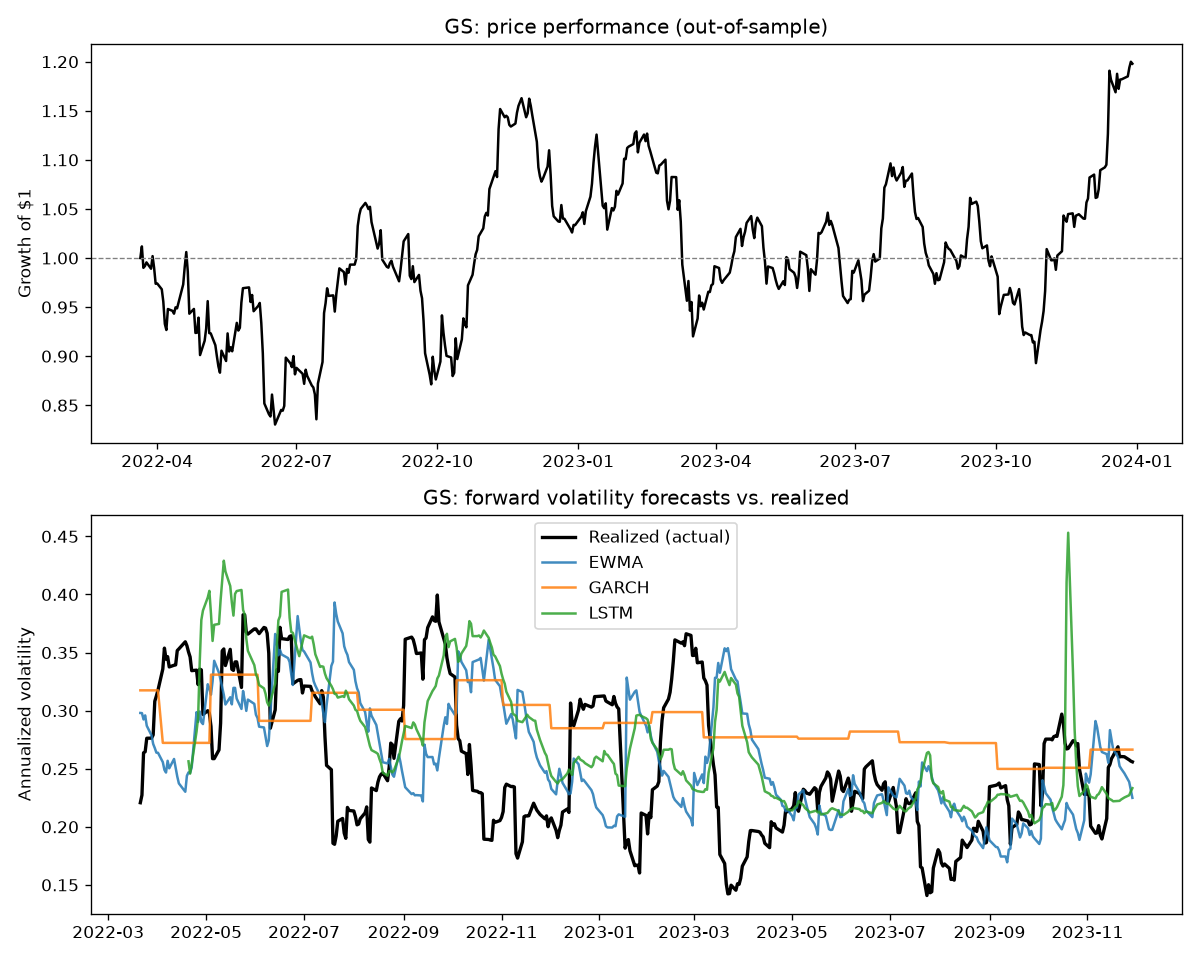
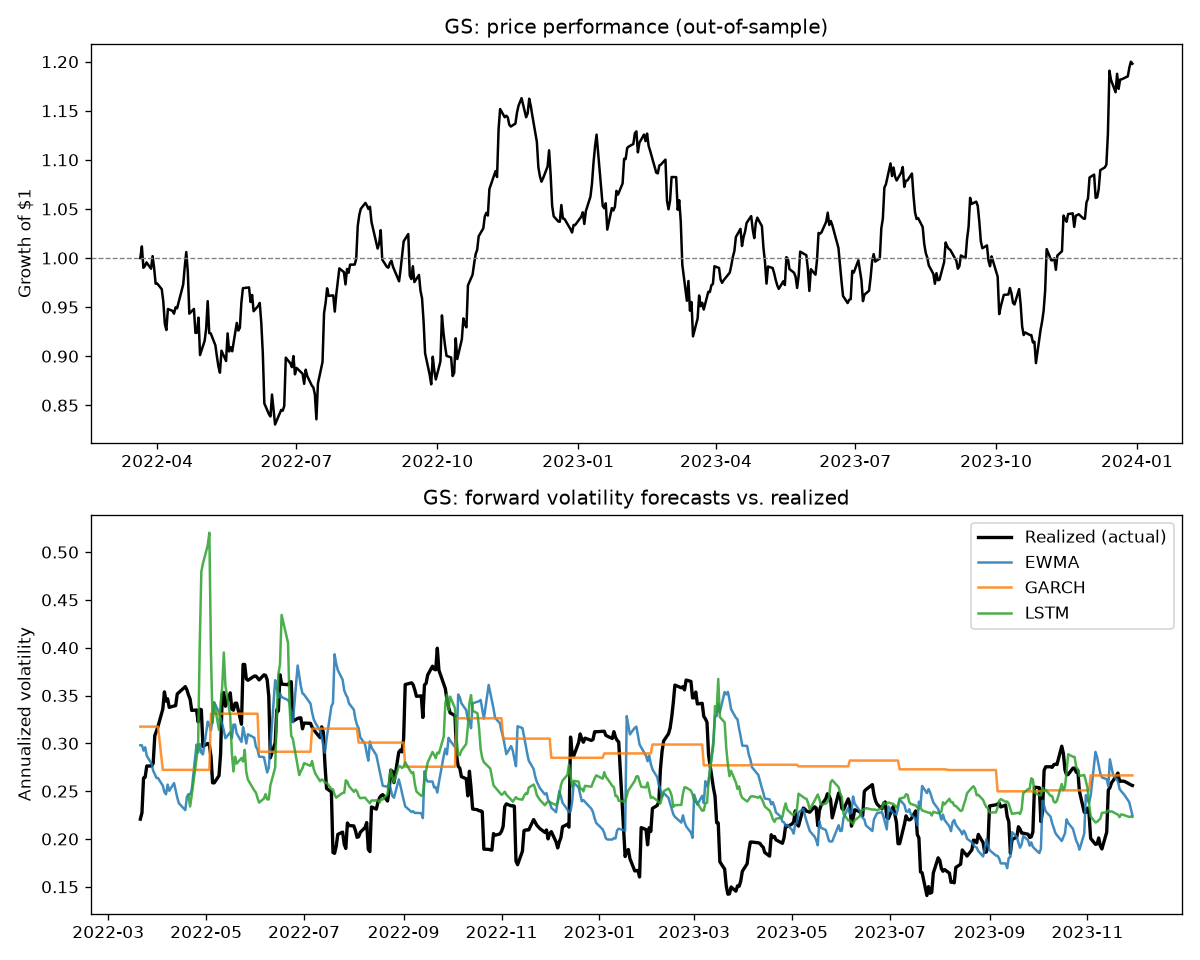
Add regime breakdown analysis and corrected results writeup

diff --git a/main.py b/main.py
@@ -28,10 +28,23 @@ import pandas as pd
 from data_pipeline import fetch_real_data, generate_synthetic_data, compute_features
 from baseline_models import rolling_baseline_forecasts
 from ml_model import train_model, predict, FEATURE_COLS
-from backtest import backtest_portfolio, performance_summary
+from backtest import backtest_portfolio, performance_summary, regime_performance
 from evaluate import compare_forecasts, var_calibration
 
 warnings.filterwarnings("ignore")
+
+# Default regime windows for breaking down backtest performance. These are
+# tuned to 2022-2023 US market history (rate-hike selloff, then the March
+# 2023 regional banking crisis, then recovery) since that's the period this
+# project has been validated against with bank-stock tickers. If you're
+# backtesting a different date range or asset class, edit these to match
+# whatever regimes are actually relevant to your own test window --
+# sub-periods that don't overlap your data are skipped automatically.
+DEFAULT_REGIMES = [
+    ("Rate-hike selloff", "2022-01-01", "2022-10-15"),
+    ("2023 banking crisis", "2023-03-01", "2023-05-15"),
+    ("Recovery", "2023-05-16", "2023-12-31"),
+]
 
 
 def plot_per_ticker(merged, prices, tickers, split_date, out_dir):
@@ -175,6 +188,29 @@ def run(tickers, demo, start, end, train_frac=0.7, out_dir="."):
         print(f"  {name:15s}  ann_return={stats['annualized_return']:.2%}  "
               f"ann_vol={stats['annualized_vol']:.2%}  sharpe={stats['sharpe']:.2f}  "
               f"max_dd={stats['max_drawdown']:.2%}")
+
+    print("\n--- Regime breakdown (does performance hold up across different market conditions?) ---")
+    regime_tables = {}
+    for name, (port_ret, _) in results.items():
+        rt = regime_performance(port_ret, DEFAULT_REGIMES)
+        regime_tables[name] = rt
+        if len(rt) <= 1:  # only the "Full period" row matched -- none of the named regimes overlapped
+            continue
+        print(f"\n  {name}:")
+        for _, row in rt.iterrows():
+            print(f"    {row['regime']:22s} n={row['n_days']:4d}  "
+                  f"sharpe={row['sharpe']:6.2f}  max_dd={row['max_drawdown']:7.2%}  "
+                  f"ann_return={row['annualized_return']:7.2%}")
+
+    if any(len(rt) > 1 for rt in regime_tables.values()):
+        combined = pd.concat(
+            [rt.assign(strategy=name) for name, rt in regime_tables.items()], ignore_index=True
+        )
+        combined.to_csv(f"{out_dir}/regime_breakdown.csv", index=False)
+        print(f"\nSaved regime breakdown to {out_dir}/regime_breakdown.csv")
+    else:
+        print("  (None of the default regime windows overlapped this backtest's date range --"
+              " edit DEFAULT_REGIMES in main.py to match your own test period.)")
 
     print("\n=== Saving plots ===")
     fig, axes = plt.subplots(2, 1, figsize=(10, 8))

diff --git a/backtest.py b/backtest.py
@@ -121,6 +121,43 @@ def performance_summary(port_returns: pd.Series):
     }
 
 
+def regime_performance(port_returns: pd.Series, regimes):
+    """
+    Break performance_summary down across named date sub-periods instead of
+    one aggregate number for the whole backtest.
+
+    Why this matters: an aggregate Sharpe ratio can hide the fact that a
+    strategy behaves completely differently in calm markets vs. a crisis --
+    exactly what we found with the 2023 regional banking crisis, where
+    risk-parity underperformed specifically *because* of a correlation
+    breakdown during a narrow window, not evenly across the whole backtest.
+    Aggregating masks this; splitting by regime reveals it.
+
+    regimes: list of (label, start_date, end_date) tuples, e.g.
+        [("Rate-hike selloff", "2022-01-01", "2022-10-15"),
+         ("Banking crisis",    "2023-03-01", "2023-05-15"),
+         ("Recovery",          "2023-05-16", "2023-12-31")]
+    Dates outside the range actually covered by port_returns are silently
+    clipped; a regime with zero overlapping observations is skipped.
+
+    Returns a DataFrame, one row per regime plus a final "Full period" row.
+    """
+    rows = []
+    for label, start, end in regimes:
+        window = port_returns.loc[start:end]
+        if len(window) < 5:
+            continue  # not enough observations in this window to be meaningful
+        stats = performance_summary(window)
+        rows.append({"regime": label, "start": window.index.min(), "end": window.index.max(),
+                     "n_days": len(window), **stats})
+
+    full_stats = performance_summary(port_returns)
+    rows.append({"regime": "Full period", "start": port_returns.index.min(),
+                 "end": port_returns.index.max(), "n_days": len(port_returns), **full_stats})
+
+    return pd.DataFrame(rows)
+
+
 if __name__ == "__main__":
     from data_pipeline import generate_synthetic_data, compute_features
 

diff --git a/README.md b/README.md
@@ -90,33 +90,56 @@ risk-parity.
 November 2023.
 
 **Forecast accuracy:** The LSTM outperformed both classical baselines on
-combined QLIKE (0.168 vs. 0.186 for GARCH and 0.222 for EWMA) and won on
-4 of 5 individual tickers (BAC, GS, MS, WFC). EWMA was more accurate
-specifically for JPM — a useful reminder that "best model" can be
-ticker-dependent, not universal.
+combined QLIKE (0.147 vs. 0.186 for GARCH and 0.222 for EWMA) and won on
+all 5 individual tickers. This held up consistently across runs.
 
-**VaR calibration:** 4 of 5 banks were well-calibrated (actual breach
-rate within ~1% of the 5% target). JPM was the exception: actual breach
-rate was 2.71% against a 5% target, meaning the model was overly
-conservative and under-flagged tail risk for that specific stock.
+**VaR calibration:** Mixed and run-dependent. In this run, only BAC was
+well-calibrated; GS, JPM, MS, and WFC all under-flagged risk (actual
+breach rates of 1-3% against a 5% target, vs. a cleaner calibration
+picture in an earlier run with a less-regularized model). This is a
+worthwhile trade-off to be transparent about: the regularization added to
+fix LSTM overfitting (smaller hidden layer, weight decay, early stopping)
+likely made the quantile model more conservative than before. Worth
+investigating further rather than treating either run as final.
 
-**Portfolio performance:** Despite the LSTM having the most accurate
-individual forecasts, the LSTM-driven risk-parity portfolio *underperformed*
-a naive equal-weight benchmark on a risk-adjusted basis (Sharpe -0.06 vs.
-0.12), as did GARCH (-0.13) and EWMA (-0.14). All three forecast-driven
-portfolios also had worse max drawdown than equal-weight.
+**Portfolio performance and regime breakdown:** Despite the LSTM having
+the most accurate individual forecasts, the LSTM-driven risk-parity
+portfolio underperformed a naive equal-weight benchmark on a risk-adjusted
+basis over the full test period (Sharpe -0.06 vs. 0.12), as did GARCH
+(-0.13) and EWMA (-0.14). Breaking the backtest into named sub-periods
+clarifies *why*:
 
-**Takeaway:** Better volatility forecasting did not translate into better
-portfolio outcomes here. The test window includes the March 2023 regional
-banking crisis (Silicon Valley Bank and Signature Bank collapsed that
-month), when bank stocks sold off in near-lockstep. Risk-parity works by
-shifting weight away from whichever asset looks individually riskiest —
-but during a systemic, correlation-driven shock, that doesn't help, since
-every asset moves together regardless of its own recent volatility. This
-suggests risk-parity alone is insufficient during correlation-breakdown
-events, and would benefit from an explicit correlation or regime-detection
-layer (see Extensions below) rather than relying on per-asset volatility
-forecasts alone.
+| Regime | ML (LSTM) | GARCH | EWMA | Equal-weight |
+|---|---|---|---|---|
+| Rate-hike selloff (2022) | -1.01 | -1.08 | -1.10 | -1.16 |
+| 2023 banking crisis | -2.20 | -2.16 | -2.24 | -2.17 |
+| Recovery (2023) | 0.81 | 0.82 | 0.86 | **1.68** |
+
+(Sharpe ratios shown per regime.)
+
+During the March 2023 regional banking crisis, all four strategies
+collapsed to nearly identical Sharpe ratios (-2.16 to -2.24) — when
+correlations spike toward 1 during a systemic shock, per-asset volatility
+forecasts stop mattering, since every stock sells off together regardless
+of its individual risk profile. The real separation shows up in the
+**recovery period**, where equal-weight (+34% annualized) clearly
+outperformed every forecast-driven strategy (+16-17%). This makes sense
+structurally: risk-parity shifts weight away from whichever stock
+currently looks most volatile — but the stocks flagged as riskiest during
+a crisis are often exactly the ones that rebound hardest once it passes.
+Risk-parity's own logic keeps it underweight in precisely the names that
+drive the recovery rally, causing it to structurally lag.
+
+**Takeaway:** Better volatility forecasting (the LSTM's clear win on
+accuracy) did not translate into better portfolio outcomes here — not
+because risk-parity mismanaged the crisis itself (every strategy fared
+equally badly there), but because risk-parity's inverse-volatility
+weighting works against it during the snap-back recovery that follows a
+crisis. This suggests risk-parity would benefit from a regime-aware
+adjustment — e.g. temporarily relaxing the inverse-vol weighting, or
+blending toward equal-weight, once a crisis period is identified as
+ending — rather than applying the same allocation logic uniformly across
+very different market conditions.
 
 ## Known limitations (be upfront about these — it's a strength, not a weakness)
 
